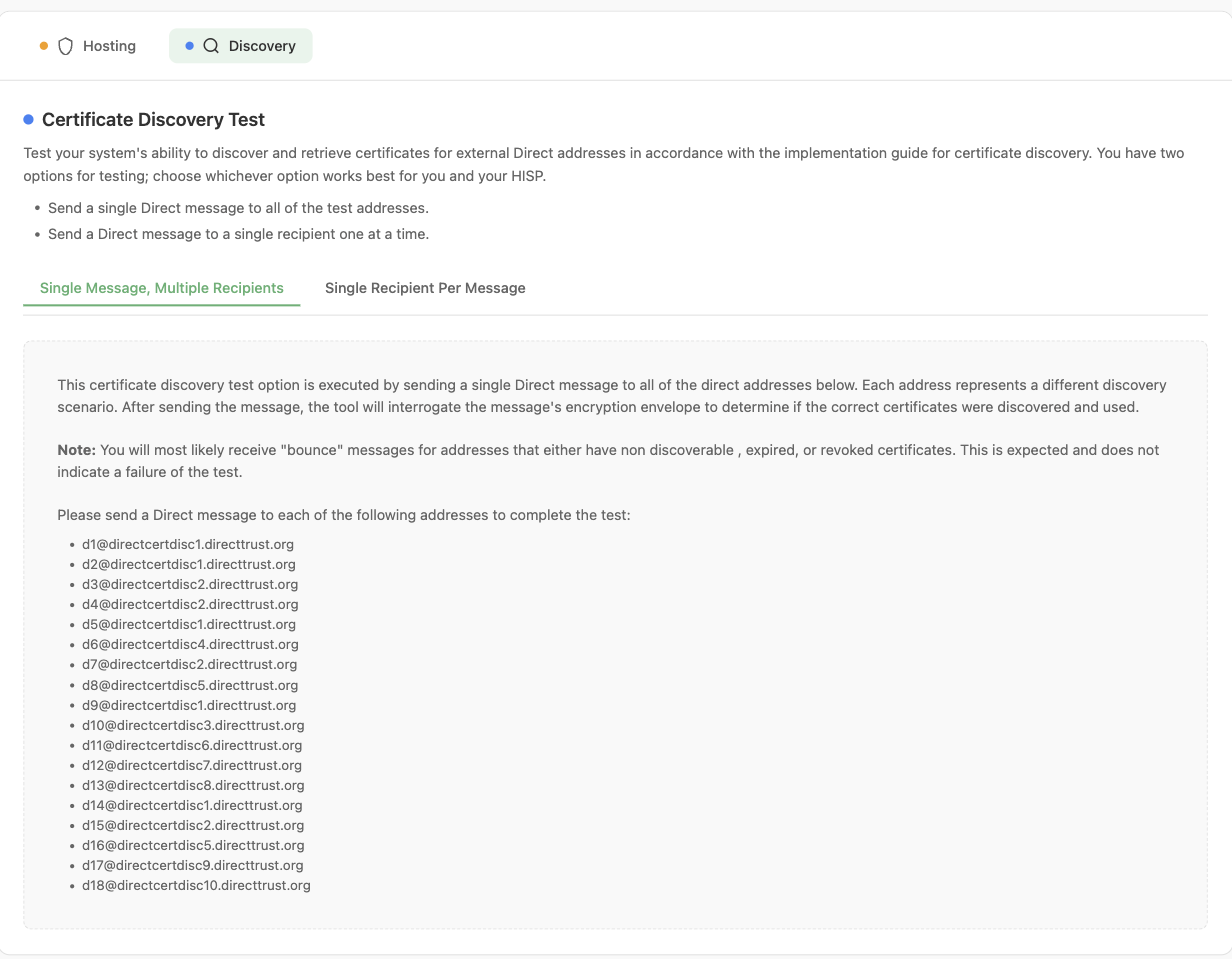
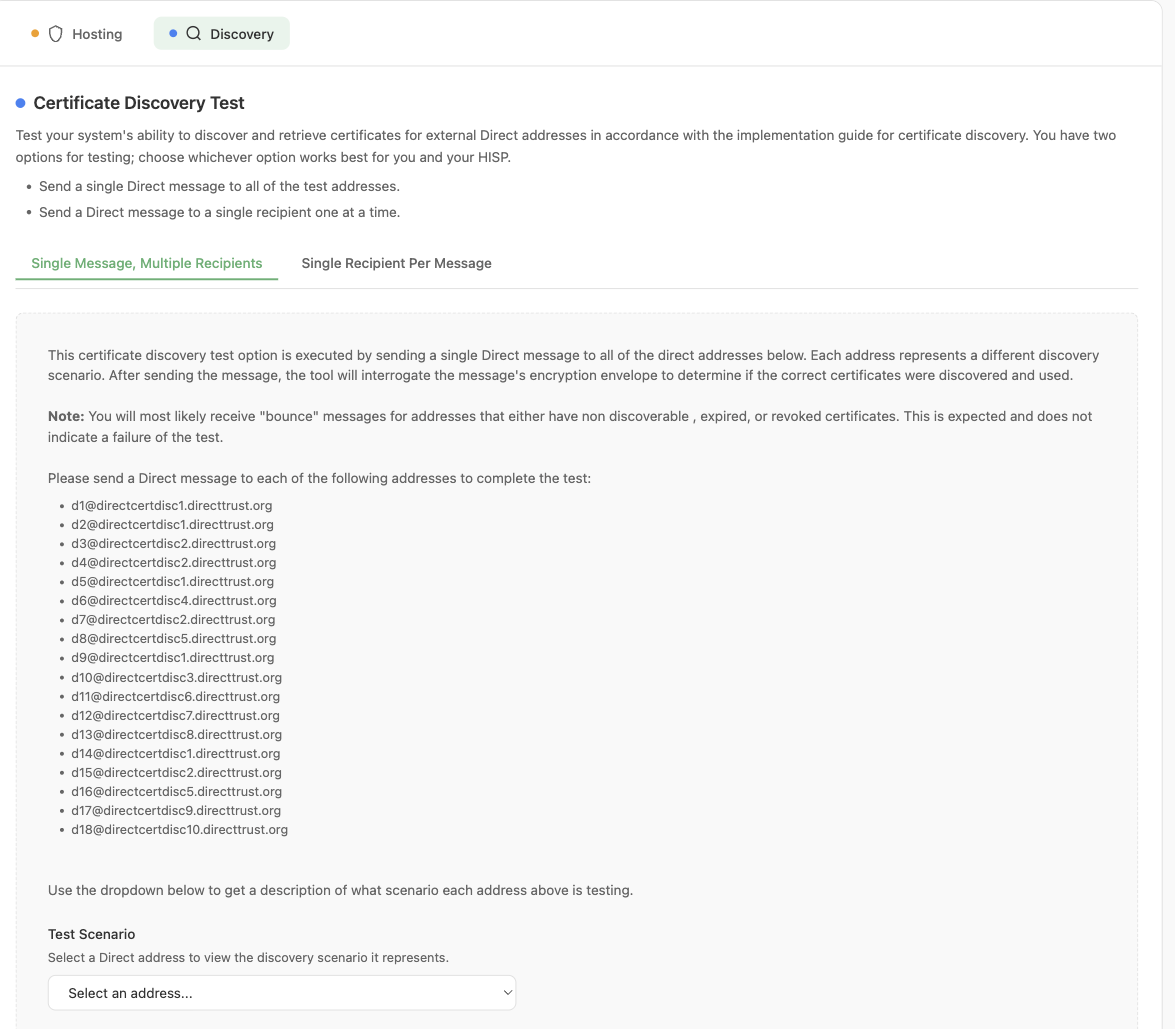
Document the Test Scenario dropdown on the multi-recipient tab
The Single Message, Multiple Recipients test screen now includes a Test
Scenario dropdown beneath the address list that shows the discovery
scenario for a selected address, along with the expected certificate for
addresses where one should be discovered.

- Add a "Viewing the Scenario for an Address" section after the Workflow
  section describing the dropdown and linking to the scenario table
- Replace 1.png with a current capture of the test screen including the
  dropdown
- Add 2.png showing an address selected with its scenario and expected
  certificate details
- Renumber the results screenshot to 3.png

Claude-Session: https://claude.ai/code/session_01RDbJPVQ1XCmDWyaf1MRtXu

Changed region(s): [[0.0, 0.0907, 0.9498, 0.9677], [0.1532, 0.0302, 0.2451, 0.0605], [0.0306, 0.0302, 0.1226, 0.0605]]

diff --git a/docs/certificate-discovery-multiple-recipients.md b/docs/certificate-discovery-multiple-recipients.md
@@ -8,7 +8,7 @@ This Certificate Discovery testing option is executed by sending a **single** Di
 
 ![The Single Message, Multiple Recipients testing option](/images/certificate-discovery-multiple-recipients/1.png)
 
-*The Single Message, Multiple Recipients testing option*
+*The Single Message, Multiple Recipients testing option, listing all 18 test addresses*
 
 ## Workflow
 
@@ -21,13 +21,23 @@ This Certificate Discovery testing option is executed by sending a **single** Di
 -   Once the Direct message is received by the tool, the tool will evaluate that all expected certificates were used to encrypt the message. If any expected certificates are missing or if any unexpected certificates were used to encrypt the message, then the test will fail.
 -   The tool will generate a report indicating a success or failure and will report any certificates that were missing in the Direct message or any encountered certificates that were not expected. The results can be viewed in the Results and Reports section of the tool under Management → Results and Reports.
 
-![Certificate Discovery test results, showing the outcome for each address scenario](/images/certificate-discovery-multiple-recipients/2.png)
+![Certificate Discovery test results, showing the outcome for each address scenario](/images/certificate-discovery-multiple-recipients/3.png)
 
 *Certificate Discovery test results, showing the outcome for each address scenario*
 
 ::: tip
 **Note:** You will most likely receive “bounce” messages for the addresses that have non-discoverable, expired, or revoked certificates. This is expected and does not indicate a failure of the test.
 :::
+
+## Viewing the Scenario for an Address
+
+The test screen includes a **Test Scenario** dropdown beneath the address list. Selecting a Direct address from the dropdown displays the discovery scenario that address covers, without having to leave the tool. For addresses where a certificate is expected to be discovered, an **Expected Certificate** section is also shown with the Issuer DN, Subject DN, and Serial Number of the certificate your HISP should have used to encrypt the message.
+
+![The Test Scenario dropdown showing the scenario and expected certificate for a selected address](/images/certificate-discovery-multiple-recipients/2.png)
+
+*The Test Scenario dropdown showing the scenario and expected certificate for a selected address*
+
+The same information for all 18 addresses is listed in the [Discovery Scenarios](#discovery-scenarios) table below.
 
 ## Discovery Scenarios
 
